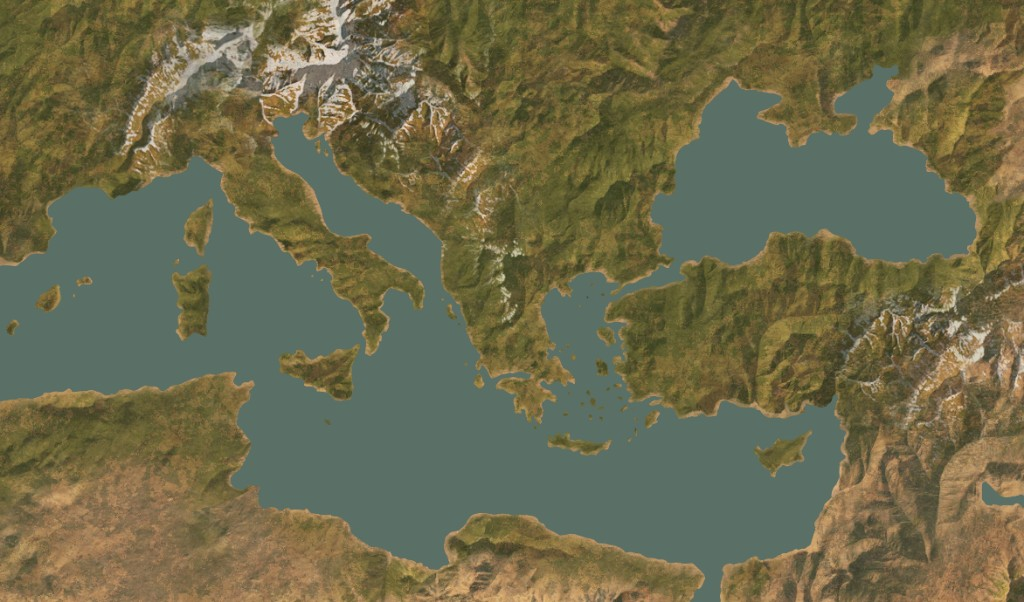
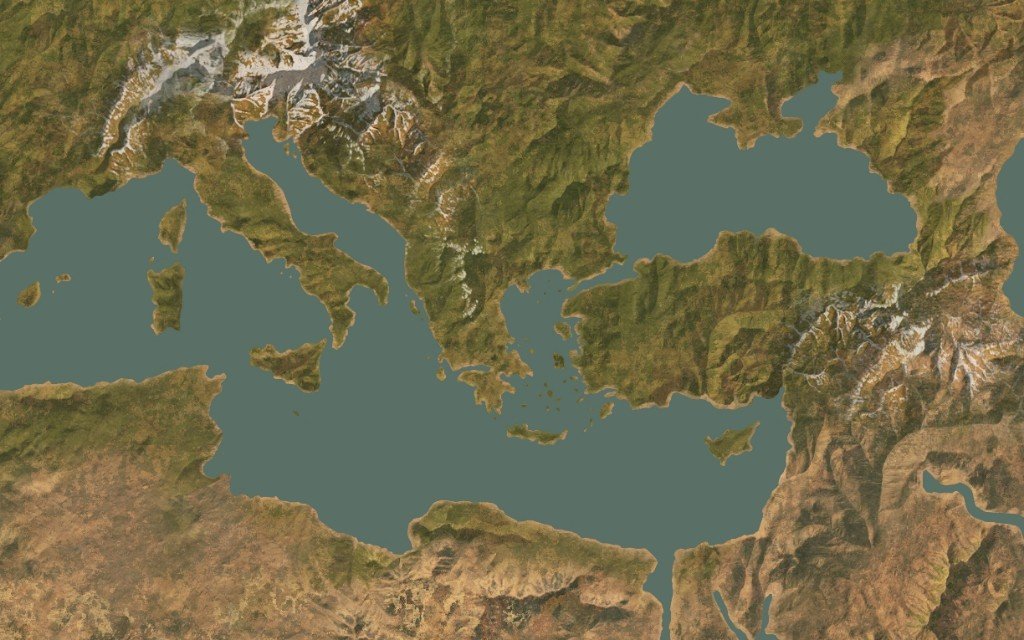
feat(origin): 동지중해 맵 갱신과 지브롤터·이베리아 배경 추가

diff --git a/js/origin-ports-coords.js b/js/origin-ports-coords.js
@@ -26,7 +26,7 @@
             label: '동지중해·흑해',
             anchor: '이스탄불',
             image: 'images/origin/eastmed.png',
-            imageAspect: 1024 / 602,
+            imageAspect: 1024 / 640,
             regions: ['동지중해', '흑해 인근', '이탈리아반도', '지중해', '남인도양'],
             ports: {
                 오데사: { x: 70, y: 8 },
@@ -69,6 +69,8 @@
             id: 'gibraltar',
             label: '지브롤터·이베리아',
             anchor: '리스본',
+            image: 'images/origin/gibraltar.png',
+            imageAspect: 1024 / 576,
             regions: ['지브롤터 근처', '서아프리카', '잉글랜드 서쪽'],
             ports: {
                 리스본: { x: 38, y: 42 },
